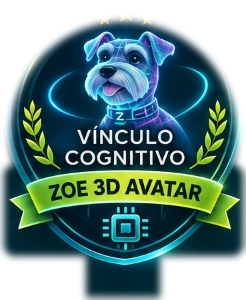
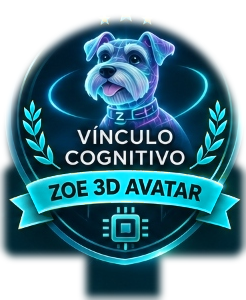
feat: armonizar insignias y resplandores con los colores temáticos de cada unidad/módulo

diff --git a/src/components/gamification/BadgesModal.tsx b/src/components/gamification/BadgesModal.tsx
@@ -20,7 +20,7 @@ import {
   evaluateGamification,
   INNOVATION_BADGES,
 } from '@/lib/gamification';
-import { BadgeGraphicRenderer } from './BadgeGraphics';
+import { BadgeGraphicRenderer, BADGE_UNIT_THEMES } from './BadgeGraphics';
 import {
   openCertificatePrintWindow,
   BADGE_CERTIFICATES,
@@ -500,22 +500,41 @@ export const BadgesModal: React.FC<Props> = ({ isOpen, onClose, onNavigate }) =>
                     </div>
                   </div>
 
-                  {/* Columna Derecha: Insignia Gigante 3D Oficial con Resplandor */}
+                  {/* Columna Derecha: Insignia Gigante 3D Oficial con Resplandor con Color de la Unidad */}
                   <div className="w-full md:w-[280px] flex flex-col items-center justify-center shrink-0 relative py-4">
-                    {/* Resplandor Halo Esférico */}
-                    <div className="absolute w-56 h-56 rounded-full bg-gradient-to-br from-[#00F5FF]/30 to-[#B4FF2B]/15 blur-2xl pointer-events-none" />
-
-                    <img
-                      src={`/assets/badges/${currentBadgeCert.badgeAsset}.png`}
-                      alt={currentBadgeCert.badgeTitle}
-                      className="relative z-10 w-52 sm:w-60 h-52 sm:h-60 object-contain drop-shadow-[0_0_25px_rgba(0,245,255,0.6)] drop-shadow-[0_0_10px_rgba(180,255,43,0.4)] transition-transform duration-500 hover:scale-105"
-                      onError={(e) => {
-                        (e.currentTarget as HTMLImageElement).src = `/assets/badges/${currentBadgeCert.badgeAsset}.webp`;
-                      }}
-                    />
-
-                    {/* Resplandor de suelo */}
-                    <div className="w-44 h-4 rounded-full bg-[#00F5FF]/40 blur-md -mt-2 pointer-events-none" />
+                    {/* Resplandor Halo Esférico con color de unidad */}
+                    {(() => {
+                      const theme = BADGE_UNIT_THEMES[currentBadgeCert.badgeAsset] || {
+                        primary: '#00F5FF',
+                        glow: 'rgba(0, 245, 255, 0.45)',
+                      };
+                      return (
+                        <>
+                          <div
+                            className="absolute w-56 h-56 rounded-full blur-2xl pointer-events-none transition-all duration-500 opacity-60"
+                            style={{
+                              background: `radial-gradient(circle, ${theme.primary}50 0%, ${theme.primary}10 60%, transparent 100%)`,
+                            }}
+                          />
+                          <img
+                            src={`/assets/badges/${currentBadgeCert.badgeAsset}.png`}
+                            alt={currentBadgeCert.badgeTitle}
+                            className="relative z-10 w-52 sm:w-60 h-52 sm:h-60 object-contain transition-transform duration-500 hover:scale-105"
+                            style={{
+                              filter: `drop-shadow(0 0 20px ${theme.glow}) drop-shadow(0 0 8px ${theme.primary}80)`,
+                            }}
+                            onError={(e) => {
+                              (e.currentTarget as HTMLImageElement).src = `/assets/badges/${currentBadgeCert.badgeAsset}.webp`;
+                            }}
+                          />
+                          {/* Resplandor de suelo con color de unidad */}
+                          <div
+                            className="w-44 h-4 rounded-full blur-md -mt-2 pointer-events-none opacity-80"
+                            style={{ backgroundColor: `${theme.primary}60` }}
+                          />
+                        </>
+                      );
+                    })()}
                   </div>
                 </div>
 

diff --git a/src/lib/certificatePdfExport.ts b/src/lib/certificatePdfExport.ts
@@ -84,6 +84,44 @@ export interface CertificateData {
   issueDate?: string;
 }
 
+export const BADGE_UNIT_COLORS: Record<string, { primary: string; glow: string; label: string }> = {
+  pionero_territorial: {
+    primary: '#10B981', // Verde esmeralda territorial distinguido
+    glow: 'rgba(16, 185, 129, 0.45)',
+    label: 'Estudio Territorial',
+  },
+  visionario_estrategico: {
+    primary: '#F29F05', // Ámbar cálido de ideación
+    glow: 'rgba(242, 159, 5, 0.50)',
+    label: 'Ideación Estratégica',
+  },
+  arquitecto_tendencias: {
+    primary: '#00C8FF', // Azul celeste / Cian de árbol de tendencias
+    glow: 'rgba(0, 200, 255, 0.50)',
+    label: 'Árbol de Innovación',
+  },
+  ingeniero_prototipos: {
+    primary: '#E024A5', // Fucsia prototipado
+    glow: 'rgba(224, 36, 165, 0.52)',
+    label: 'Prototipado TRL',
+  },
+  custodio_conocimiento: {
+    primary: '#A78BFA', // Púrpura / Violeta banco unificado
+    glow: 'rgba(167, 139, 250, 0.50)',
+    label: 'Banco de Innovación',
+  },
+  vinculo_cognitivo: {
+    primary: '#00F5FF', // Cian digital ZOE
+    glow: 'rgba(0, 245, 255, 0.50)',
+    label: 'Agente ZOE 3D',
+  },
+  maestro_innovador_360: {
+    primary: '#FFD700', // Oro imperial 360
+    glow: 'rgba(255, 215, 0, 0.55)',
+    label: 'Maestría 360',
+  },
+};
+
 export function generateCertificateHtml(data: CertificateData): string {
   const recipientName = data.recipientName?.trim() || 'Natalia Elizabeth Pérez Cabrera';
   const recipientId = data.recipientId?.trim() || 'C.C. 1.085.241.978';
@@ -91,6 +129,7 @@ export function generateCertificateHtml(data: CertificateData): string {
   
   const normalizedBadgeId = (data.badgeId || 'pionero_territorial').toLowerCase().replace(/-/g, '_');
   const badgeInfo = BADGE_CERTIFICATES[normalizedBadgeId] || BADGE_CERTIFICATES['pionero_territorial'];
+  const unitTheme = BADGE_UNIT_COLORS[badgeInfo.id] || BADGE_UNIT_COLORS['pionero_territorial'];
 
   const now = new Date();
   const issueDateFormatted = data.issueDate || `${now.getDate()}/${now.getMonth() + 1}/${now.getFullYear()}`;
@@ -308,7 +347,7 @@ export function generateCertificateHtml(data: CertificateData): string {
       width: 75mm;
       height: 75mm;
       border-radius: 50%;
-      background: radial-gradient(circle, rgba(0, 245, 255, 0.3) 0%, rgba(180, 255, 43, 0.15) 45%, transparent 70%);
+      background: radial-gradient(circle, ${unitTheme.primary}45 0%, ${unitTheme.primary}12 50%, transparent 70%);
       filter: blur(15px);
       z-index: 1;
     }
@@ -319,7 +358,7 @@ export function generateCertificateHtml(data: CertificateData): string {
       width: 78mm;
       height: 78mm;
       object-fit: contain;
-      filter: drop-shadow(0 0 25px rgba(0, 245, 255, 0.6)) drop-shadow(0 0 10px rgba(180, 255, 43, 0.4));
+      filter: drop-shadow(0 0 20px ${unitTheme.glow}) drop-shadow(0 0 8px ${unitTheme.primary}80);
       animation: float 6s ease-in-out infinite;
     }
 
@@ -330,7 +369,7 @@ export function generateCertificateHtml(data: CertificateData): string {
       width: 55mm;
       height: 8mm;
       border-radius: 50%;
-      background: radial-gradient(ellipse at center, rgba(0, 245, 255, 0.6) 0%, transparent 75%);
+      background: radial-gradient(ellipse at center, ${unitTheme.primary}80 0%, transparent 75%);
       filter: blur(4px);
       z-index: 1;
     }

diff --git a/src/components/gamification/BadgeGraphics.tsx b/src/components/gamification/BadgeGraphics.tsx
@@ -11,6 +11,44 @@ interface InternalBadgeProps extends BadgeGraphicProps {
   title: string;
 }
 
+export const BADGE_UNIT_THEMES: Record<string, { primary: string; glow: string; label: string }> = {
+  pionero_territorial: {
+    primary: '#10B981', // Verde esmeralda territorial distinguido y sobrio
+    glow: 'rgba(16, 185, 129, 0.45)',
+    label: 'Estudio Territorial',
+  },
+  visionario_estrategico: {
+    primary: '#F29F05', // Ámbar / Oro cálido de ideación
+    glow: 'rgba(242, 159, 5, 0.50)',
+    label: 'Ideación Estratégica',
+  },
+  arquitecto_tendencias: {
+    primary: '#00C8FF', // Azul celeste / Cian de árbol de tendencias
+    glow: 'rgba(0, 200, 255, 0.50)',
+    label: 'Árbol de Innovación',
+  },
+  ingeniero_prototipos: {
+    primary: '#E024A5', // Fucsia prototipado
+    glow: 'rgba(224, 36, 165, 0.52)',
+    label: 'Prototipado TRL',
+  },
+  custodio_conocimiento: {
+    primary: '#A78BFA', // Púrpura / Violeta banco unificado
+    glow: 'rgba(167, 139, 250, 0.50)',
+    label: 'Banco de Innovación',
+  },
+  vinculo_cognitivo: {
+    primary: '#00F5FF', // Cian digital ZOE
+    glow: 'rgba(0, 245, 255, 0.50)',
+    label: 'Agente ZOE 3D',
+  },
+  maestro_innovador_360: {
+    primary: '#FFD700', // Oro imperial 360
+    glow: 'rgba(255, 215, 0, 0.55)',
+    label: 'Maestría 360',
+  },
+};
+
 const BaseImageBadge: React.FC<InternalBadgeProps> = ({
   assetName,
   title,
@@ -20,6 +58,11 @@ const BaseImageBadge: React.FC<InternalBadgeProps> = ({
 }) => {
   const pngSrc = `/assets/badges/${assetName}.png`;
   const webpSrc = `/assets/badges/${assetName}.webp`;
+  const theme = BADGE_UNIT_THEMES[assetName] || {
+    primary: '#00F5FF',
+    glow: 'rgba(0, 245, 255, 0.45)',
+    label: 'Innovación',
+  };
 
   return (
     <div
@@ -36,8 +79,8 @@ const BaseImageBadge: React.FC<InternalBadgeProps> = ({
           className="w-full h-full object-contain pointer-events-none transition-all duration-300"
           style={{
             filter: isUnlocked
-              ? 'drop-shadow(0 0 14px rgba(0, 245, 255, 0.5)) drop-shadow(0 0 6px rgba(180, 255, 43, 0.35))'
-              : 'drop-shadow(0 0 6px rgba(0, 245, 255, 0.2)) saturate(0.9) opacity(0.92)',
+              ? `drop-shadow(0 0 12px ${theme.glow}) drop-shadow(0 0 4px ${theme.primary}60)`
+              : 'drop-shadow(0 0 5px rgba(255, 255, 255, 0.12)) saturate(0.85) opacity(0.88)',
           }}
         />
       </picture>

diff --git a/src/lib/gamification.ts b/src/lib/gamification.ts
@@ -31,7 +31,7 @@ export const INNOVATION_BADGES: BadgeDefinition[] = [
     description: 'Completó un Estudio Territorial caracterizando vocaciones, pilares y matriz FODA.',
     howToUnlock: 'Genera o guarda un Estudio Territorial en el módulo de Estudio.',
     category: 'Estudio',
-    color: '#A8C63C',
+    color: '#10B981',
     icon: Compass,
     xp: 150,
   },
@@ -53,7 +53,7 @@ export const INNOVATION_BADGES: BadgeDefinition[] = [
     description: 'Estructuró un Árbol Holográfico de Innovación conectando 10 tendencias mundiales con el territorio.',
     howToUnlock: 'Construye un Árbol de Innovación con ramas globales, nacionales y frutos.',
     category: 'Árbol',
-    color: '#5EC2DD',
+    color: '#00C8FF',
     icon: Trees,
     xp: 200,
   },
